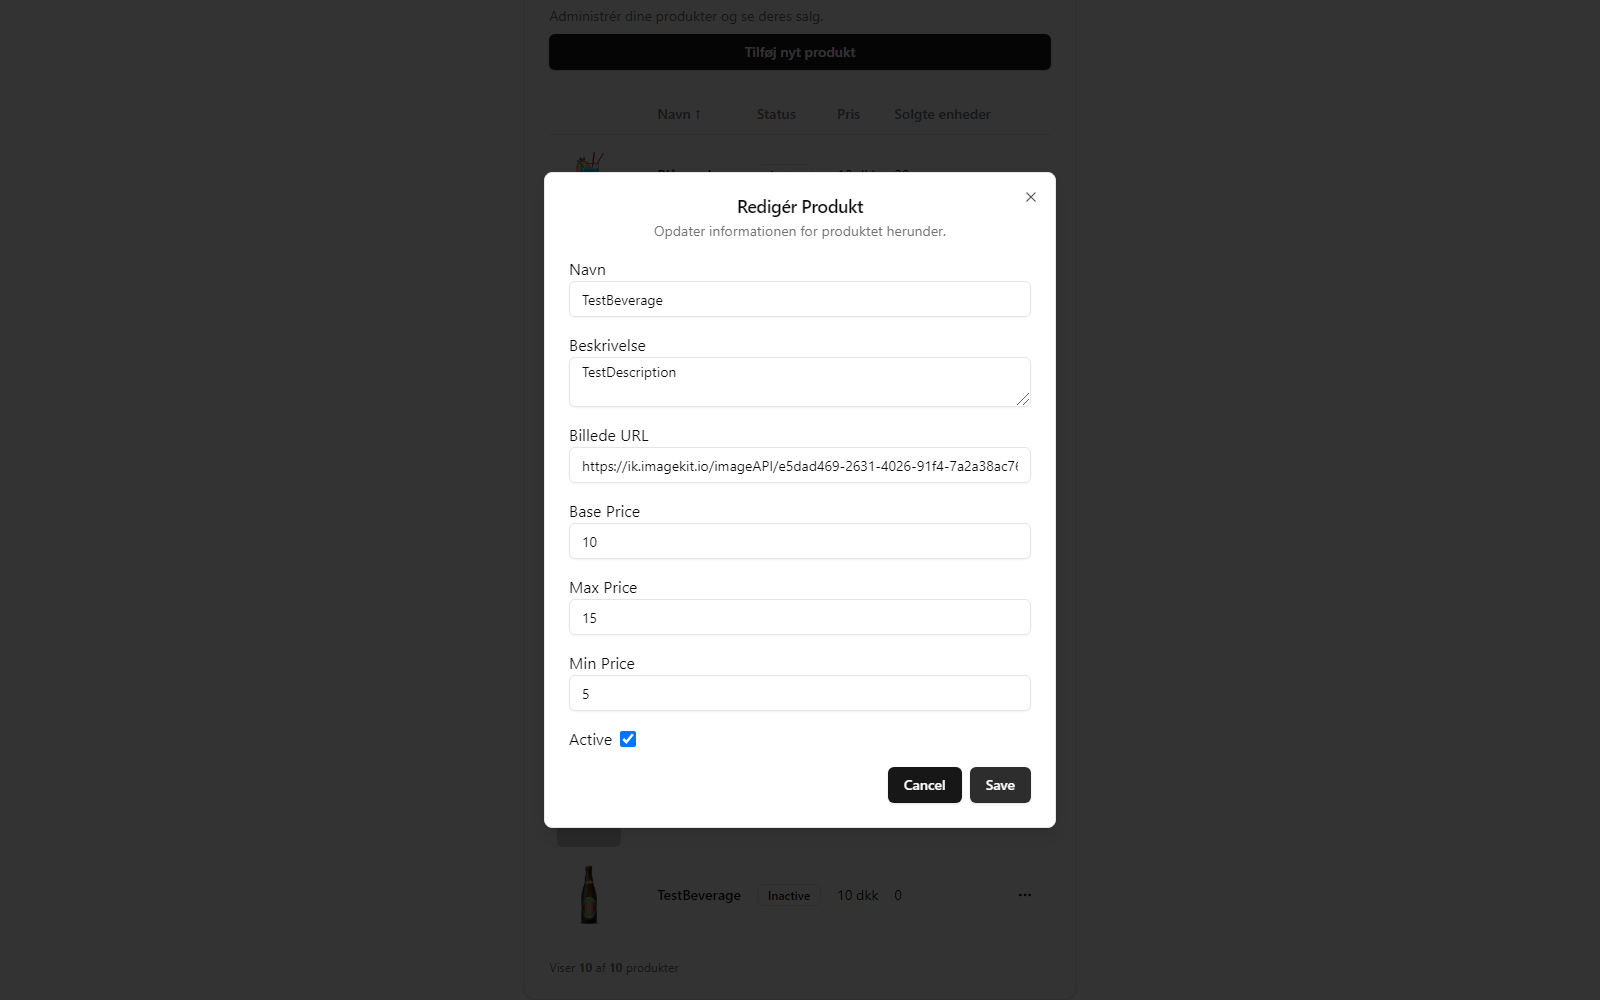
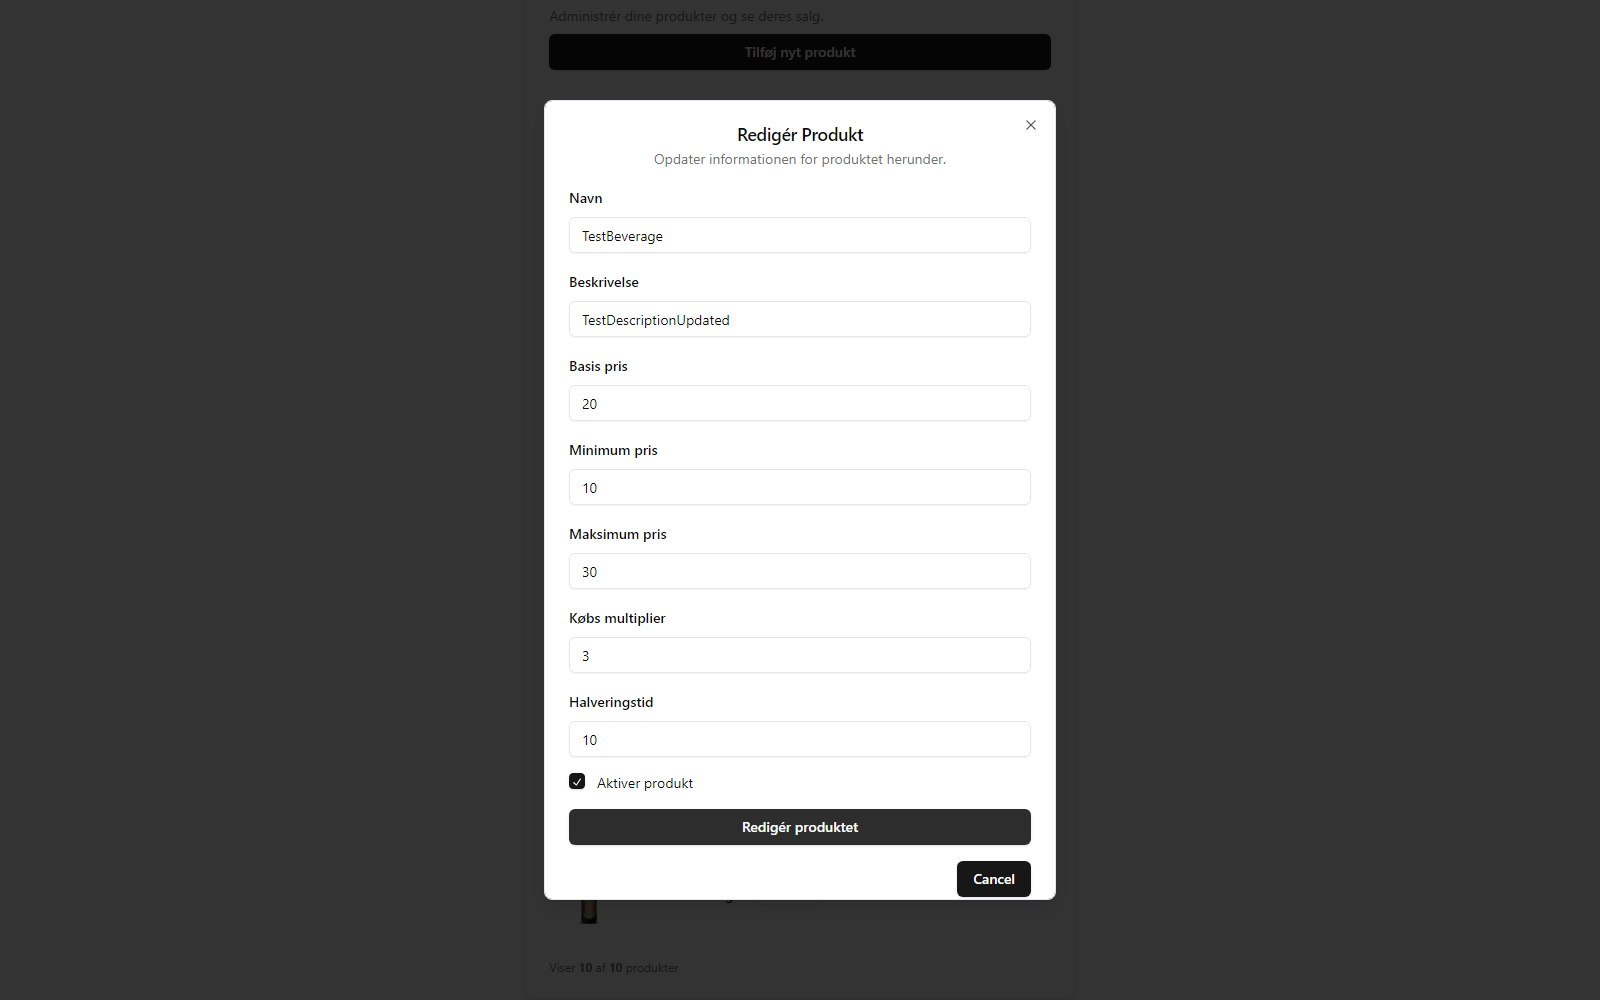
more testing

Changed region(s): [[0.3125, 0.744, 0.6875, 0.899], [0.3125, 0.093, 0.6875, 0.248], [0.3438, 0.248, 0.625, 0.744]]

diff --git a/integrationtest/frontend/bartender.spec.ts b/integrationtest/frontend/bartender.spec.ts
@@ -128,9 +128,6 @@ test('when adding new beverage with invalid data, an error message is shown', as
         await page.fill('input[name="buyMultiplier"]', '2');
         await page.fill('input[name="halfTime"]', '5');
     
-        
-    
-        
         // Submit the form
         await page.click('button[type="submit"]');
         
@@ -143,6 +140,59 @@ test('when adding new beverage with invalid data, an error message is shown', as
     
     }
     );
+    
+    test('when updating a beverage, the beverage is updated in the list', async ({ page }) => {
+                             
+        await page.goto('http://localhost:5175'); // Add "http://" prefix to the URL
+        
+        // Fill the login form
+        await page.fill('input[id="username"]', 'bartender'); 
+        await page.fill('input[id="password"]', 'bartender123'); 
+        
+        // Submit the form
+        await Promise.all([
+            page.waitForNavigation(), // Wait for navigation after form submission
+            page.click('button[type="submit"]')
+        ]);
+        
+        // Check that the page is redirected to the bartender page
+        await expect(page.url()).toMatch(/\/admin/);
+    
+        await page.setViewportSize({ width: 1600, height: 1000 }); // Set viewport size
+     
+        const beverageCount = await page.locator('text=TestBeverage').count();
+        console.log('Number of TestBeverage elements:', beverageCount); // Output the count for debugging
+        // Locate the specific table row containing the "Blå vand" product
+        const row = page.locator('tr', { has: page.locator('td:has-text("TestBeverage")') }).first();
+      
+        // Locate the button within the specific table row
+        const button = row.locator('button');
+      
+        // Click the button
+        await button.click();
+
+        await page.locator('text=Redigér').click();
+        await page.waitForTimeout(200);
+        
+        await page.screenshot({ path: 'before_update.png' });
+
+        await page.locator('input[name="name"]').fill('TestBeverage');
+        await page.locator('input[name="description"]').fill('TestDescriptionUpdated');
+        await page.locator('input[name="basePrice"]').fill('20');
+        await page.locator('input[name="minPrice"]').fill('10');
+        await page.locator('input[name="maxPrice"]').fill('30');
+        await page.locator('input[name="buyMultiplier"]').fill('3');   
+        await page.locator('input[name="halfTime"]').fill('10');
+        await page.locator('text="Aktiver produkt"').click();
+        
+        await page.screenshot({ path: 'after_update.png' });
+
+        await page.click('text="Redigér produktet"');
+        await page.waitForTimeout(1000);
+        await page.screenshot({ path: 'beverage_updated.png' });
+
+    });
+
 
     test('when deleting a beverage, the beverage is removed from the list', async ({ page }) => {
                              
@@ -185,51 +235,4 @@ test('when adding new beverage with invalid data, an error message is shown', as
             expect(await page.locator('text=TestBeverage').count()).toBeLessThan(beverageCount);
 
             await page.screenshot({ path: 'beverage_deleted.png' });
-        });
-
-        test('when updating a beverage, the beverage is updated in the list', async ({ page }) => {
-                             
-            await page.goto('http://localhost:5175'); // Add "http://" prefix to the URL
-            
-            // Fill the login form
-            await page.fill('input[id="username"]', 'bartender'); 
-            await page.fill('input[id="password"]', 'bartender123'); 
-            
-            // Submit the form
-            await Promise.all([
-                page.waitForNavigation(), // Wait for navigation after form submission
-                page.click('button[type="submit"]')
-            ]);
-            
-            // Check that the page is redirected to the bartender page
-            await expect(page.url()).toMatch(/\/admin/);
-        
-            await page.setViewportSize({ width: 1600, height: 1000 }); // Set viewport size
-         
-            const beverageCount = await page.locator('text=TestBeverage').count();
-            console.log('Number of TestBeverage elements:', beverageCount); // Output the count for debugging
-            // Locate the specific table row containing the "Blå vand" product
-            const row = page.locator('tr', { has: page.locator('td:has-text("TestBeverage")') }).first();
-          
-            // Locate the button within the specific table row
-            const button = row.locator('button');
-          
-            // Click the button
-            await button.click();
-
-            await page.locator('text=Redigér').click();
-            await page.waitForTimeout(200);
-            page.locator('input', { hasText: 'Navn' }).fill('TestBeverageUpdated');
-            page.locator('input', { hasText: 'Beskrivelse' }).fill('TestDescriptionUpdated');
-            page.locator('input', { hasText: 'Base Price' }).fill('20');
-            page.locator('input', { hasText: 'Min Price' }).fill('10');
-            page.locator('input', { hasText: 'Max Price' }).fill('30');
-            page.locator('input[type="checkbox"]').check();
-        
-            await page.screenshot({ path: 'update.png' });
-
-            await page.click('text=Save');
-            await page.waitForTimeout(1000);
-            await page.screenshot({ path: 'beverage_updated.png' });
-
         });
